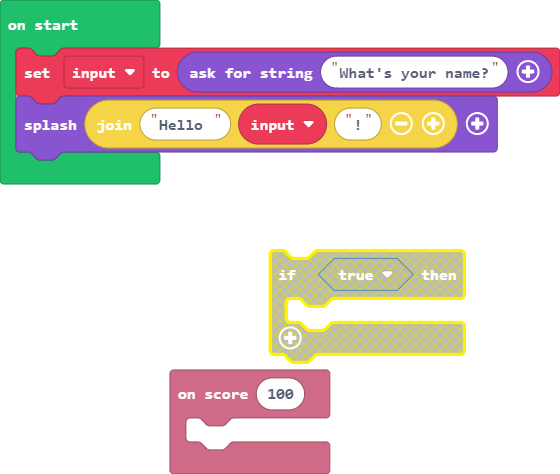
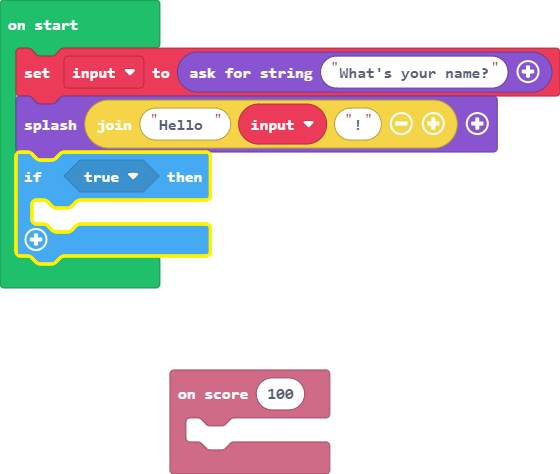
Update main.blocks, main.ts

Changed region(s): [[0.0, 0.2954, 0.3946, 0.6203], [0.4554, 0.5021, 0.85, 0.7679]]

diff --git a/main.ts b/main.ts
@@ -3,3 +3,6 @@ info.onScore(100, function () {
 })
 let input2 = game.askForString("What's your name?")
 game.splash("Hello " + input2 + "!")
+if (true) {
+	
+}
